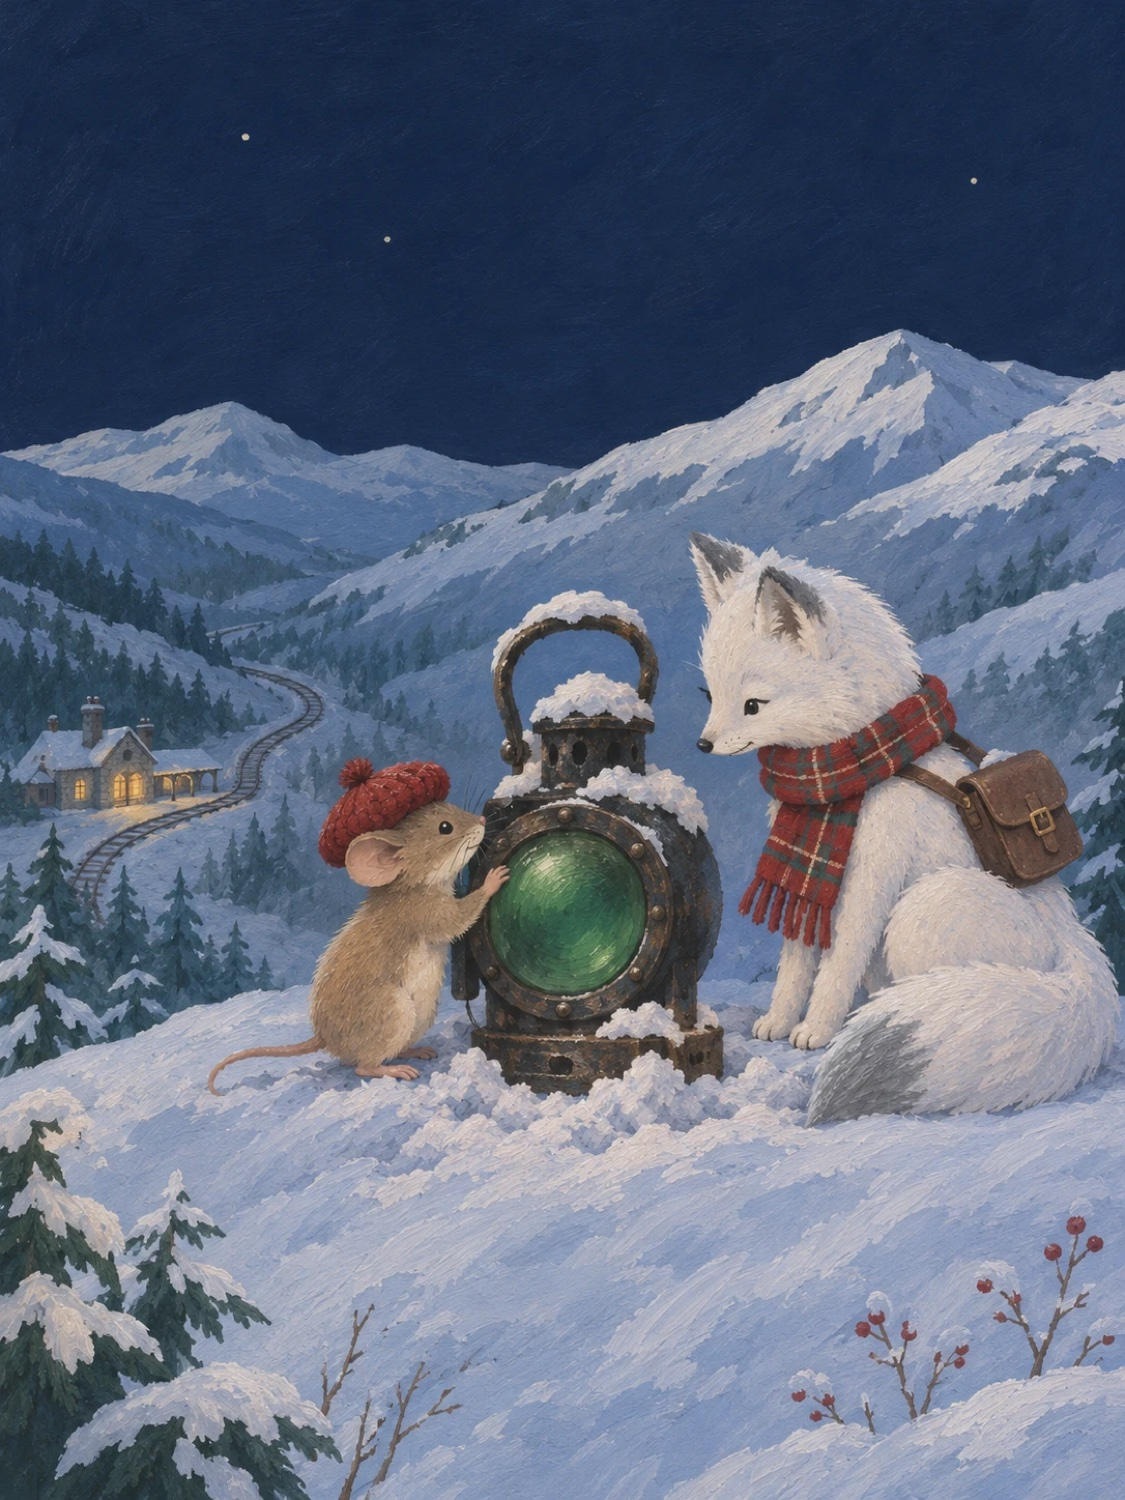
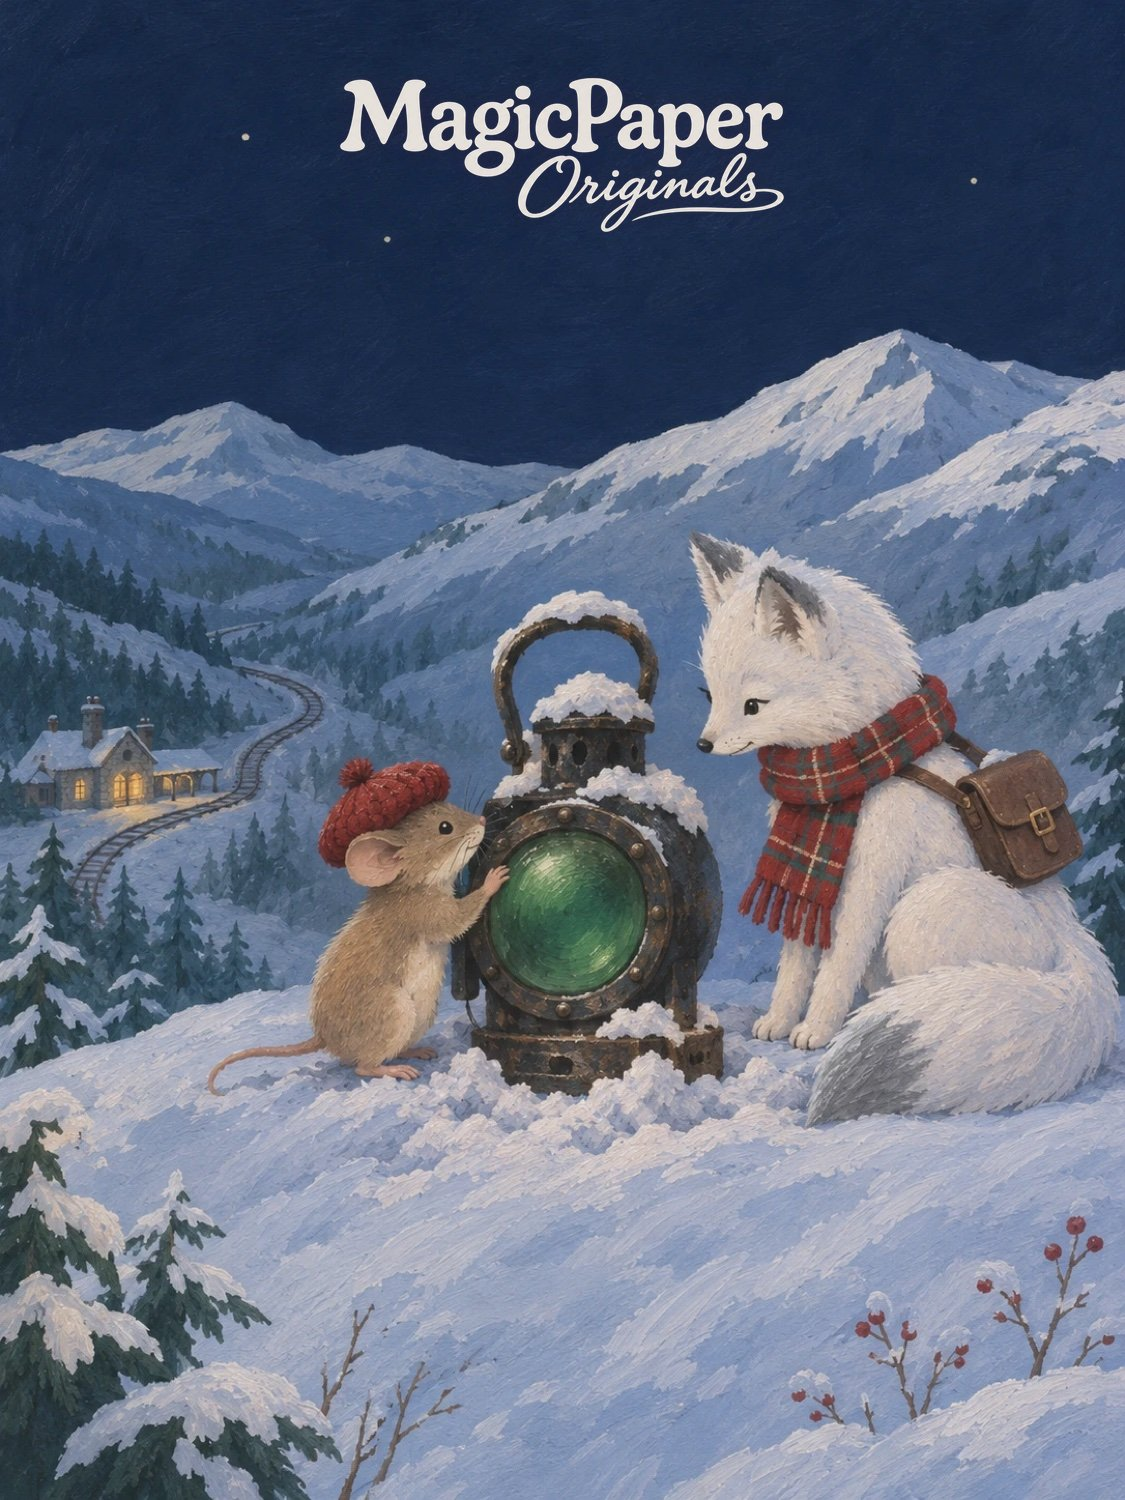
MagicPaper Originals logosu: kapaklara basıldı, Masallar başlığında yazının yerine

Changed region(s): [[0.3111, 0.0307, 0.7156, 0.1533]]

diff --git a/MagicPaper/DesignSystem/Pastel/MPCards.swift b/MagicPaper/DesignSystem/Pastel/MPCards.swift
@@ -151,6 +151,9 @@ struct MPSectionHeader<Leading: View, Trailing: View>: View {
     var note: String? = nil
     var noteSpoken: String? = nil
     var link: (title: String, action: () -> Void)? = nil
+    /// Başlık yazısının yerine çizilen tek renkli logo (şablon görsel, `textPrimary` ile
+    /// boyanır; açık ve koyu temada aynı). VoiceOver `title`'ı okur.
+    var titleArt: Image? = nil
     @ViewBuilder var leading: Leading
     @ViewBuilder var trailing: Trailing
 
@@ -158,11 +161,15 @@ struct MPSectionHeader<Leading: View, Trailing: View>: View {
         VStack(alignment: .leading, spacing: MPSpacing.xxs) {
             HStack(alignment: .firstTextBaseline, spacing: MPSpacing.sm) {
                 leading
-                Text(title)
-                    .mpText(area == .kid ? .section : .section)
-                    .foregroundStyle(MPColor.textPrimary)
-                    .fixedSize(horizontal: false, vertical: true)
-                    .accessibilityAddTraits(.isHeader)
+                if let titleArt {
+                    MPSectionTitleArt(image: titleArt, label: title)
+                } else {
+                    Text(title)
+                        .mpText(area == .kid ? .section : .section)
+                        .foregroundStyle(MPColor.textPrimary)
+                        .fixedSize(horizontal: false, vertical: true)
+                        .accessibilityAddTraits(.isHeader)
+                }
                 Spacer(minLength: MPSpacing.sm)
                 if let note {
                     Text(note).mpText(.supporting).monospacedDigit().foregroundStyle(MPColor.textSecondary)
@@ -187,6 +194,26 @@ struct MPSectionHeader<Leading: View, Trailing: View>: View {
                     .fixedSize(horizontal: false, vertical: true)
             }
         }
+    }
+}
+
+/// `MPSectionHeader.titleArt`: logo, bölüm başlığıyla birlikte Dynamic Type'la büyür.
+private struct MPSectionTitleArt: View {
+    let image: Image
+    let label: String
+    @ScaledMetric(relativeTo: .title2) private var height = MPSize.titleArt
+
+    var body: some View {
+        image
+            .renderingMode(.template)
+            .resizable()
+            .scaledToFit()
+            .frame(height: min(height, MPSize.titleArtMax))
+            .foregroundStyle(MPColor.textPrimary)
+            // "Tümü ›" logonun üst satırının ("MagicPaper") tabanına hizalanır.
+            .alignmentGuide(.firstTextBaseline) { $0.height * 0.47 }
+            .accessibilityLabel(label)
+            .accessibilityAddTraits(.isHeader)
     }
 }
 

diff --git a/MagicPaper/Screens/Gunluk/GunlukComponents.swift b/MagicPaper/Screens/Gunluk/GunlukComponents.swift
@@ -237,6 +237,8 @@ struct GunlukSection<Content: View>: View {
     /// hizalanır. `true`: sayfanın sütununda sıradan bölüm.
     var surface: Bool = true
     var action: (() -> Void)? = nil
+    /// Başlığın yerine logo (yalnız `surface` bölümünde; MagicPaper Originals rafı).
+    var titleArt: Image? = nil
     @ViewBuilder var content: Content
 
     var body: some View {
@@ -245,7 +247,7 @@ struct GunlukSection<Content: View>: View {
             // bütün çocuk bölümleriyle aynı (`MPSectionHeader`).
             VStack(alignment: .leading, spacing: MPSpacing.md) {
                 MPSectionHeader(title: title, subtitle: subtitle, area: .kid,
-                                link: action.map { (title: "Tümü", action: $0) },
+                                link: action.map { (title: "Tümü", action: $0) }, titleArt: titleArt,
                                 leading: { EmptyView() }, trailing: { EmptyView() })
                 content
             }

diff --git a/MagicPaper/Screens/Gunluk/GunlukView.swift b/MagicPaper/Screens/Gunluk/GunlukView.swift
@@ -177,7 +177,8 @@ struct GunlukView: View {
         let items = library.items(in: shelf)
         if !items.isEmpty {
             GunlukSection(title: shelf.title, subtitle: shelf.subtitle,
-                          action: { app.router.masallarPath.append(.shelf(shelf)) }) {
+                          action: { app.router.masallarPath.append(.shelf(shelf)) },
+                          titleArt: shelf.titleArt) {
                 GunlukRow {
                     ForEach(items) { item in
                         ClassicShelfCard(item: item, width: Self.coverWidth, height: Self.coverHeight) { open(item) }

diff --git a/MagicPaper/DesignSystem/Pastel/MPLayout.swift b/MagicPaper/DesignSystem/Pastel/MPLayout.swift
@@ -53,6 +53,10 @@ enum MPSize {
     static let iconTile: CGFloat = 52
     static let segmentHeight: CGFloat = 40
     static let inputHeight: CGFloat = 52
+    /// Bölüm başlığında yazının yerine duran logo (MagicPaper Originals; 19 Kasım 2026).
+    /// Dynamic Type ile büyür, `titleArtMax`'ta durur.
+    static let titleArt: CGFloat = 48
+    static let titleArtMax: CGFloat = 72
 }
 
 enum MPShadow {

diff --git a/MagicPaper/Screens/Gunluk/Model/ClassicTale.swift b/MagicPaper/Screens/Gunluk/Model/ClassicTale.swift
@@ -36,6 +36,11 @@ enum ClassicShelf: String, Codable, CaseIterable, Identifiable {
         }
     }
 
+    /// Masallar'daki bölüm başlığında yazının yerine duran logo; VoiceOver `title`'ı okur.
+    var titleArt: Image? {
+        self == .orijinal ? Image("Brand/originalsLogo") : nil
+    }
+
     /// Günlük'teki kısa çip adı.
     var chipTitle: String {
         switch self {

diff --git a/Tools/stamp_originals_logo.py b/Tools/stamp_originals_logo.py
@@ -1,0 +1,74 @@
+"""MagicPaper Originals logosunu bir Original kapağının üstüne basar (karar: 19 Kasım 2026, Batuhan).
+
+    python3 Tools/stamp_originals_logo.py <cover.jpg> [<cover.jpg> ...]
+
+Logo kapağın üst ortasına, sakin gökyüzü alanına konur: genişliği kapağın %40'ı, üstten %5.
+Zemin koyuysa krem (#FFF8EE), açıksa mürekkep (#2E1E3E); arkasında aynı biçimde hafif bir
+karartma/aydınlatma halesi, ağaç ya da kubbe üstüne gelirse de okunsun diye.
+Dosyanın yerine yazar. Aynı kapağa iki kez basma: `place_cover.py` her seferinde ChatGPT'den gelen
+temiz görselden başlar ve bunu kendisi çağırır. Logo: Content/Originals/brand/originals-logo.png
+(tek renk, şeffaf zemin). Gereken: Pillow (`python3 -m pip install Pillow`).
+"""
+
+import pathlib
+import sys
+
+try:
+    from PIL import Image, ImageFilter, ImageStat
+except ImportError:
+    sys.exit("Pillow yok: python3 -m pip install Pillow")
+
+ROOT = pathlib.Path(__file__).resolve().parent.parent
+LOGO = ROOT / "Content" / "Originals" / "brand" / "originals-logo.png"
+CREAM = (0xFF, 0xF8, 0xEE)
+INK = (0x2E, 0x1E, 0x3E)
+WIDTH_RATIO = 0.40
+TOP_RATIO = 0.05
+HALO_OPACITY = 0.45
+QUALITY = 85  # place_cover.py ile aynı
+MAX_BYTES = 1500 * 1024
+
+
+def stamp(path):
+    cover = Image.open(path).convert("RGB")
+    W, H = cover.size
+    alpha = Image.open(LOGO).getchannel("A")
+    w = round(W * WIDTH_RATIO)
+    h = round(alpha.height * w / alpha.width)
+    alpha = alpha.resize((w, h), Image.LANCZOS)
+    x, y = (W - w) // 2, round(H * TOP_RATIO)
+
+    region = cover.crop((x, y, x + w, y + h)).convert("L")
+    dark = ImageStat.Stat(region).mean[0] < 140
+    color, halo_color = (CREAM, INK) if dark else (INK, CREAM)
+
+    radius = max(4, w // 40)
+    halo = alpha.filter(ImageFilter.MaxFilter(3)).filter(ImageFilter.GaussianBlur(radius))
+    halo = halo.point(lambda v: round(v * HALO_OPACITY))
+    cover.paste(Image.new("RGB", (w, h), halo_color), (x, y), halo)
+    cover.paste(Image.new("RGB", (w, h), color), (x, y), alpha)
+
+    quality = QUALITY
+    while True:
+        cover.save(path, "JPEG", quality=quality, optimize=True, progressive=True)
+        if path.stat().st_size <= MAX_BYTES or quality <= 70:
+            break
+        quality -= 5
+    tone = "krem" if dark else "mürekkep"
+    print(f"Logo basıldı ({tone}): {path} ({path.stat().st_size // 1024} KB)")
+
+
+def main(args):
+    if not args:
+        sys.exit(__doc__)
+    if not LOGO.exists():
+        sys.exit(f"Logo yok: {LOGO}")
+    for arg in args:
+        path = pathlib.Path(arg)
+        if not path.exists():
+            sys.exit(f"Kapak yok: {path}")
+        stamp(path)
+
+
+if __name__ == "__main__":
+    main(sys.argv[1:])

diff --git a/Tools/place_cover.py b/Tools/place_cover.py
@@ -6,7 +6,8 @@
 Görsel (PNG, JPEG, WebP, HEIC) ortadan 3:4'e kırpılır, 1125 × 1500 JPEG olarak
 Content/Originals/drafts/<slug>/cover.jpg'ye yazılır. Taslak yoksa published/<slug>/ denenir
 (yayımlanmış bir masalın kapağını değiştirmek için; sonra katalog derleyicisi yeniden çalıştırılır).
-Yalnız macOS sips; ağ yok.
+Ardından `stamp_originals_logo.py` MagicPaper Originals logosunu kapağın üstüne basar (19 Kasım 2026).
+Kırpma macOS sips ile, logo Pillow ile; ağ yok.
 """
 
 import pathlib
@@ -63,7 +64,9 @@ def main(argv):
     dst = folder / "cover.jpg"
     place(src, dst)
     print(f"Kapak yazıldı: {dst.relative_to(ROOT)} ({dst.stat().st_size // 1024} KB, {WIDTH} × {HEIGHT})")
-    return 0
+    # Her Original kapağı MagicPaper Originals logosunu taşır (karar: 19 Kasım 2026, Batuhan).
+    stamp = subprocess.run([sys.executable, str(ROOT / "Tools" / "stamp_originals_logo.py"), str(dst)])
+    return stamp.returncode
 
 
 if __name__ == "__main__":

diff --git a/design-handoff/reference/DEMO_CHANGELOG.md b/design-handoff/reference/DEMO_CHANGELOG.md
@@ -133,6 +133,14 @@ Bu dosya, MagicPaper Kids demo canvas'ının hafızası. Kaynak koddaki CLAUDE.m
 
 ## Değişiklik günlüğü
 
+### 2026-11-19 · main, commit bu kayıtla · MagicPaper Originals logosu: kapaklar ve Masallar başlığı
+- Logo: Batuhan'ın ChatGPT'den getirdiği "MagicPaper / Originals" yazı logosu tek renk, şeffaf zeminli hale getirildi (`Content/Originals/brand/originals-logo.png`, uygulamada `Brand/originalsLogo`, şablon görsel). Kaynak ve önizlemeler: `design-handoff/proposals/2026-11-19-originals-logo/` (commit edilmedi, paylaşılan checkout'ta).
+- Kapaklar: yeni `Tools/stamp_originals_logo.py` logoyu kapağın üst ortasına basar (genişlik %40, üstten %5, koyu zeminde krem `#FFF8EE` + hafif mürekkep halesi, açık zeminde mürekkep). Üç Original kapağına basıldı: Saatin İçindeki Ninni, Kırmızı Atkıdaki Kar Tanesi (published + uygulama asset'i) ve Kar Tepesi'ndeki Yeşil Işık (taslak). `place_cover.py` artık her yeni kapağa logoyu kendisi basar.
+- Masallar: Original rafının bölüm başlığında "MagicPaper Original" yazısı yerine logo duruyor (`MPSectionHeader.titleArt`, `ClassicShelf.titleArt`). Logo `textPrimary` ile boyanır, açık ve koyu temada aynı; yükseklik 48 pt, Dynamic Type ile büyür, 72 pt'de durur (`MPSize.titleArt`, `titleArtMax`); VoiceOver "MagicPaper Original" başlığı okur. Raf sayfası ve Kategoriler'deki yazılı ad bilerek değişmedi.
+- Bilerek değişmeyen: `hosting/public/content/originals/saatin-icindeki-ninni.jpg` ve imzalı `feed.json` eski kapakta kaldı (uzaktan akış kapalı; yeniden imza ve deploy Batuhan'da).
+- Doğrulama: değişen Swift dosyalarında `swiftc -parse` temiz, tasarım kuralı grep'leri eklenen satırlarda boş, `originals check kar-tepesindeki-yesil-isik` temiz. Uygulama derlenmedi ve test edilmedi (diskte 902 MB boş yer var); simülatörde görülmedi, Batuhan cihazda deneyecek.
+- Dosyalar: `MagicPaper/DesignSystem/Pastel/{MPCards,MPLayout}.swift`, `MagicPaper/Screens/Gunluk/{GunlukComponents,GunlukView}.swift`, `MagicPaper/Screens/Gunluk/Model/ClassicTale.swift`, `MagicPaper/Assets.xcassets/Brand/originalsLogo.imageset`, `MagicPaper/Assets.xcassets/Originals/*`, `Content/Originals/{brand,published,drafts}`, `Tools/{place_cover,stamp_originals_logo}.py`, bu günlük.
+
 ### 2026-11-19 · main, commit bu kayıtla · MagicPaper Original: Kar Tepesi'ndeki Yeşil Işık kapağı yerleşti
 - Batuhan'ın ChatGPT'den getirdiği kapak `Tools/place_cover.py` ile taslağa kondu: 1125 × 1500 JPEG, 536 KB.
 - Görsel kontrol: yazı ve rakam yok, odak dikeyde yaklaşık %60, üst üçte bir sakin, 176 px küçük hâlde okunuyor, karakter görünüşleri WORLD.md ile uyumlu. Fener direk ucunda değil karın içinde çizilmiş; metin bilerek değişmedi.
